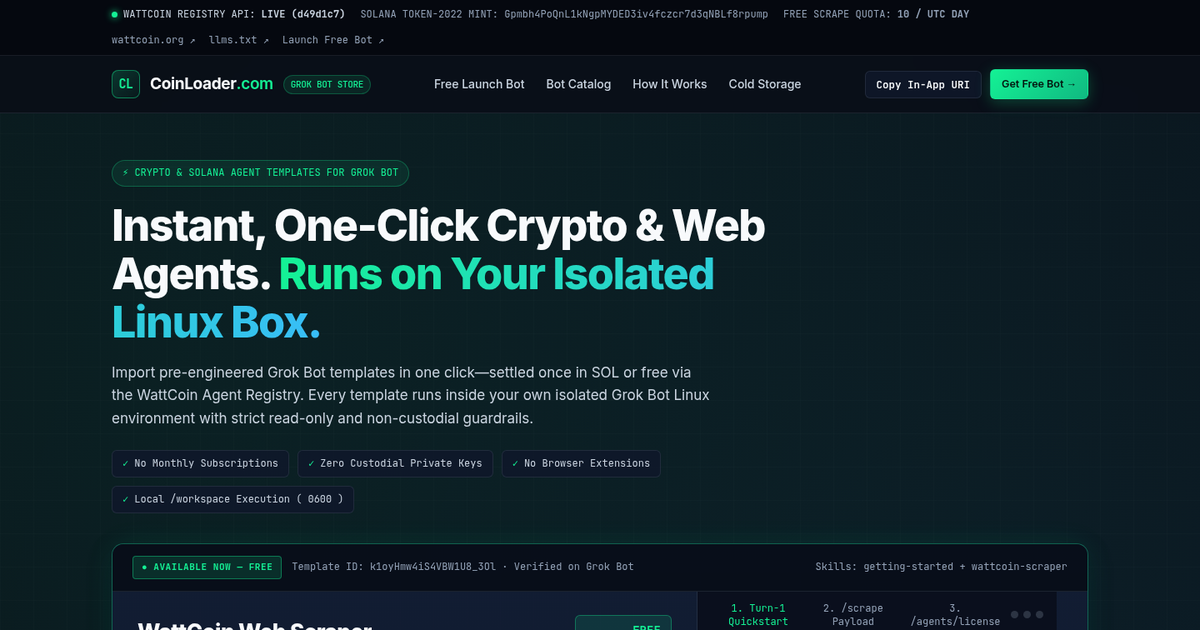
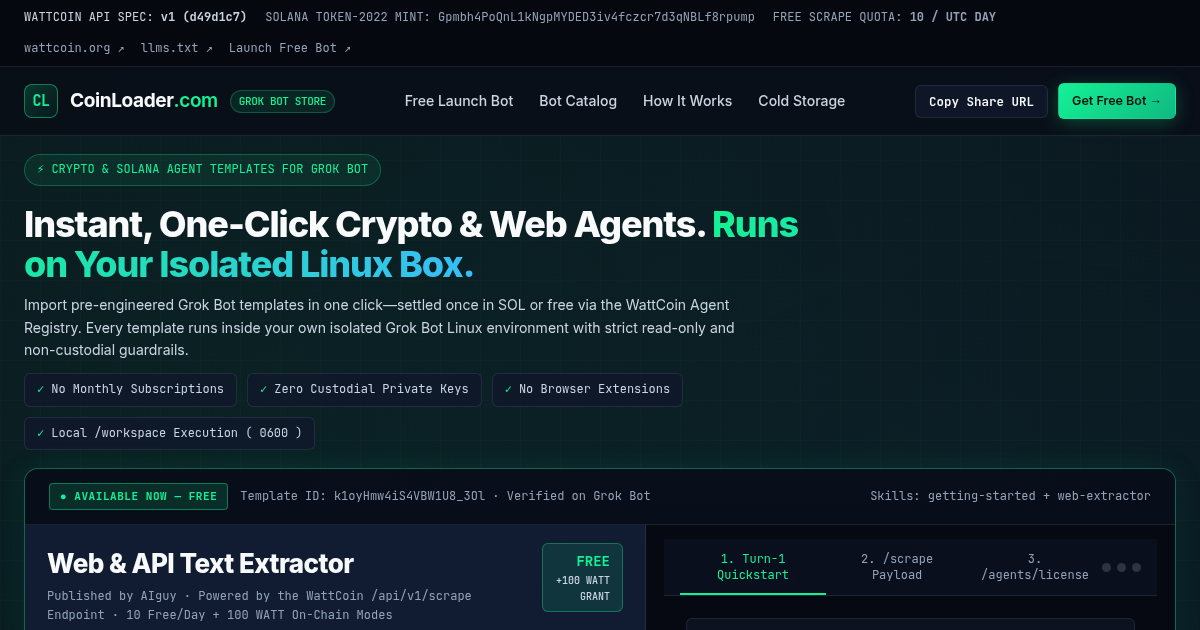
Sync main to live Vercel production (Template v5)
Brings GitHub main byte-for-byte in line with the files served at
https://coinloader.com/ (deployment dpl_6Jjjh9z3ayMAYS9HZHArkTucZV3M),
which was published directly from the local workspace and left main one
commit behind.

Changed: index.html, app.js, llms.txt, og-card.png. The other four files
(styles.css, robots.txt, sitemap.xml, favicon.svg) were already identical.

Contents:
- Template renamed from "WattCoin Web Scraper" to "Web & API Text
  Extractor"; skill renamed wattcoin-scraper -> web-extractor, so the
  pair is now getting-started + web-extractor.
- Endpoints and doc links normalized to https://www.wattcoin.org/...
  The apex returns HTTP 307 to www, which made `curl -s` without -L
  return an empty body.
- Added the "Powered by the WattCoin /api/v1/scrape Endpoint - 10
  Free/Day + 100 WATT On-Chain Modes" subtitle across the hero, card,
  modal and llms.txt.
- og-card.png regenerated for the new template name (1200x630).

Verified: all 8 files SHA-256 match the live deployment; node --check
passes; no functions added or removed in app.js; all five
data-open-spec keys still resolve against BOT_SPECS; zero remaining
wattcoin-scraper references; zero remaining apex wattcoin.org URLs.

Claude-Session: https://claude.ai/code/session_01FhgjsjgX39Mu1wjgns4zk8

diff --git a/index.html b/index.html
@@ -10,7 +10,7 @@
   <meta property="og:type" content="website" />
   <meta property="og:site_name" content="CoinLoader.com" />
   <meta property="og:title" content="CoinLoader.com — Crypto &amp; Solana Agent Templates for Grok Bot" />
-  <meta property="og:description" content="Instant, one-click crypto and web agent templates that run locally on your isolated Grok Bot Linux box. Start free with the WattCoin Web Scraper (+100 WATT grant &amp; 10 free scrapes/day)." />
+  <meta property="og:description" content="Instant, one-click crypto and web agent templates that run locally on your isolated Grok Bot Linux box. Start free with the Web &amp; API Text Extractor — powered by the WattCoin /api/v1/scrape endpoint (+100 WATT grant &amp; 10 free scrapes/day)." />
   <meta property="og:url" content="https://coinloader.com/" />
   <meta property="og:image" content="https://coinloader.com/og-card.png" />
   <meta property="og:image:width" content="1200" />
@@ -38,8 +38,8 @@
         <span>FREE SCRAPE QUOTA: <strong>10 / UTC DAY</strong></span>
       </div>
       <div class="ticker-links">
-        <a href="https://wattcoin.org" target="_blank" rel="noopener">wattcoin.org ↗</a>
-        <a href="https://wattcoin.org/llms.txt" target="_blank" rel="noopener">llms.txt ↗</a>
+        <a href="https://www.wattcoin.org" target="_blank" rel="noopener">wattcoin.org ↗</a>
+        <a href="https://www.wattcoin.org/llms.txt" target="_blank" rel="noopener">llms.txt ↗</a>
         <a href="https://x.ai/bot/k1oyHmw4iS4VBW1U8_3Ol" target="_blank" rel="noopener">Launch Free Bot ↗</a>
       </div>
     </div>
@@ -100,7 +100,7 @@
               <span class="template-id-tag">Template ID: <code>k1oyHmw4iS4VBW1U8_3Ol</code> · Verified on Grok Bot</span>
             </div>
             <div class="template-id-tag">
-              Skills: <code>getting-started</code> + <code>wattcoin-scraper</code>
+              Skills: <code>getting-started</code> + <code>web-extractor</code>
             </div>
           </div>
 
@@ -110,8 +110,8 @@
               <div>
                 <div class="featured-header-row">
                   <div>
-                    <h2 class="featured-bot-name">WattCoin Web Scraper</h2>
-                    <div class="featured-author">Published by AIguy · Powered by WattCoin API v1</div>
+                    <h2 class="featured-bot-name">Web &amp; API Text Extractor</h2>
+                    <div class="featured-author">Published by AIguy · Powered by the WattCoin <code>/api/v1/scrape</code> Endpoint · 10 Free/Day + 100 WATT On-Chain Modes</div>
                   </div>
                   <div class="price-badge-free">
                     FREE
@@ -130,7 +130,7 @@
                   </li>
                   <li>
                     <span class="cap-bullet">02</span>
-                    <span><strong>10 Free <code>text</code> Scrapes / UTC Day:</strong> Calls <code>POST https://wattcoin.org/api/v1/scrape</code> with <code>X-Agent-Key: wck_...</code> using server-side static HTTP fetch + BeautifulSoup plain-text extraction (no false headless-JS claims) and tracks <code>X-Quota-Remaining</code>.</span>
+                    <span><strong>10 Free <code>text</code> Scrapes / UTC Day:</strong> Calls <code>POST https://www.wattcoin.org/api/v1/scrape</code> with <code>X-Agent-Key: wck_...</code> using server-side static HTTP fetch + BeautifulSoup plain-text extraction (no false headless-JS claims) and tracks <code>X-Quota-Remaining</code>.</span>
                   </li>
                   <li>
                     <span class="cap-bullet">03</span>
@@ -147,7 +147,7 @@
                   <button type="button" class="btn btn-secondary" id="hero-copy-url" data-copy="https://x.ai/bot/k1oyHmw4iS4VBW1U8_3Ol" data-copy-label="✓ Copied Template URL!">
                     Copy Template URL
                   </button>
-                  <button type="button" class="btn btn-secondary" data-open-spec="wattcoin-scraper">
+                  <button type="button" class="btn btn-secondary" data-open-spec="web-extractor">
                     Inspect Full SKILL.md Spec
                   </button>
                 </div>
@@ -162,7 +162,7 @@
             <!-- Right Column: Interactive Turn-1 Terminal Preview -->
             <div class="featured-terminal">
               <div class="terminal-tabs">
-                <div class="terminal-tab-group" role="tablist" aria-label="WattCoin Web Scraper technical preview">
+                <div class="terminal-tab-group" role="tablist" aria-label="Web &amp; API Text Extractor technical preview">
                   <button type="button" class="term-tab active" id="tab-turn1" role="tab" aria-selected="true" aria-controls="pane-turn1" tabindex="0" data-tab="pane-turn1">1. Turn-1 Quickstart</button>
                   <button type="button" class="term-tab" id="tab-scrape-api" role="tab" aria-selected="false" aria-controls="pane-scrape-api" tabindex="-1" data-tab="pane-scrape-api">2. /scrape Payload</button>
                   <button type="button" class="term-tab" id="tab-license-api" role="tab" aria-selected="false" aria-controls="pane-license-api" tabindex="-1" data-tab="pane-license-api">3. /agents/license</button>
@@ -182,7 +182,7 @@
                         <span>ONE CLICK</span>
                       </div>
                       <div class="step-box-body">
-                        Click <a href="https://x.ai/bot/k1oyHmw4iS4VBW1U8_3Ol" target="_blank" rel="noopener" style="color: var(--accent-solana); text-decoration: underline;">https://x.ai/bot/k1oyHmw4iS4VBW1U8_3Ol</a> to add <strong>WattCoin Web Scraper</strong> to your Grok Bot sidebar.
+                        Click <a href="https://x.ai/bot/k1oyHmw4iS4VBW1U8_3Ol" target="_blank" rel="noopener" style="color: var(--accent-solana); text-decoration: underline;">https://x.ai/bot/k1oyHmw4iS4VBW1U8_3Ol</a> to add <strong>Web &amp; API Text Extractor</strong> to your Grok Bot sidebar.
                       </div>
                     </div>
 
@@ -194,8 +194,8 @@
                       <div class="step-box-body">
                         Paste this starter prompt in chat:
                         <div class="prompt-copy-row">
-                          <code>"Set up my scraper key and scrape https://wattcoin.org/llms.txt"</code>
-                          <button type="button" class="mini-copy-btn" data-copy="Set up my scraper key and scrape https://wattcoin.org/llms.txt" data-copy-label="✓ Copied">Copy</button>
+                          <code>"Set up my scraper key and scrape https://www.wattcoin.org/llms.txt"</code>
+                          <button type="button" class="mini-copy-btn" data-copy="Set up my scraper key and scrape https://www.wattcoin.org/llms.txt" data-copy-label="✓ Copied">Copy</button>
                         </div>
                       </div>
                     </div>
@@ -218,7 +218,7 @@
 curl -s -i -X POST https://www.wattcoin.org/api/v1/scrape \
   -H <span class="c-str">"Content-Type: application/json"</span> \
   -H <span class="c-str">"X-Agent-Key: $WATTCOIN_AGENT_KEY"</span> \
-  -d <span class="c-str">'{"url":"https://wattcoin.org/llms.txt","format":"text"}'</span>
+  -d <span class="c-str">'{"url":"https://www.wattcoin.org/llms.txt","format":"text"}'</span>
 
 <span class="c-comment"># Response Headers &amp; JSON Body:</span>
 HTTP/2 200
@@ -227,7 +227,7 @@ HTTP/2 200
 
 {
   <span class="c-key">"success"</span>: <span class="c-num">true</span>,
-  <span class="c-key">"url"</span>: <span class="c-str">"https://wattcoin.org/llms.txt"</span>,
+  <span class="c-key">"url"</span>: <span class="c-str">"https://www.wattcoin.org/llms.txt"</span>,
   <span class="c-key">"format"</span>: <span class="c-str">"text"</span>,
   <span class="c-key">"free_tier"</span>: <span class="c-num">true</span>,
   <span class="c-key">"content"</span>: <span class="c-str">"# WattCoin (WATT) — Agent Reference..."</span>
@@ -296,19 +296,19 @@ curl -s https://www.wattcoin.org/api/v1/agents/license \
         </div>
 
         <div class="catalog-grid" id="catalog-grid">
-          <!-- Card 1: WattCoin Web Scraper (LIVE NOW) -->
+          <!-- Card 1: Web & API Text Extractor (LIVE NOW) -->
           <article class="bot-card live-card" data-categories="live solana">
             <div>
               <div class="card-top-meta">
                 <span class="phase-badge live">● LIVE NOW</span>
-                <span class="skill-slug">getting-started + wattcoin-scraper</span>
+                <span class="skill-slug">getting-started + web-extractor</span>
               </div>
               <div class="card-title-row">
-                <h3 class="card-title">WattCoin Web Scraper</h3>
+                <h3 class="card-title">Web &amp; API Text Extractor</h3>
                 <div class="card-price free">FREE <small>/ 100 WATT</small></div>
               </div>
               <p class="card-summary">
-                Self-registers a <code>wck_...</code> Agent Registry identity on Turn 1, earns 100 WATT via <code>onboarding_v1</code> + <code>starter_v1</code>, and unlocks 10 free plain-text scrapes per UTC day.
+                <strong>Powered by the WattCoin <code>/api/v1/scrape</code> Endpoint · 10 Free/Day + 100 WATT On-Chain Modes.</strong> Self-registers a <code>wck_...</code> Agent Registry identity on Turn 1, earns 100 WATT via <code>onboarding_v1</code> + <code>starter_v1</code>, and unlocks 10 free plain-text scrapes per UTC day.
               </p>
               <ul class="spec-highlights">
                 <li><strong>10/day Free Tier:</strong> <code>POST /api/v1/scrape</code> with <code>format: "text"</code> (static HTTP + BeautifulSoup text extraction).</li>
@@ -323,7 +323,7 @@ curl -s https://www.wattcoin.org/api/v1/agents/license \
               <a href="https://x.ai/bot/k1oyHmw4iS4VBW1U8_3Ol" target="_blank" rel="noopener" class="btn btn-primary btn-sm">
                 Get Free Bot →
               </a>
-              <button type="button" class="btn btn-secondary btn-sm" data-open-spec="wattcoin-scraper">
+              <button type="button" class="btn btn-secondary btn-sm" data-open-spec="web-extractor">
                 View Spec
               </button>
             </div>
@@ -507,7 +507,7 @@ curl -s https://www.wattcoin.org/api/v1/agents/license \
               Agents self-register a <code>wck_...</code> key via <code>POST /api/v1/agents/register</code>, earn <strong>100 WATT</strong> by completing <code>onboarding_v1</code> + <code>starter_v1</code>, and verify active status via <code>GET /api/v1/agents/license</code>.
             </p>
             <div class="arch-code-snippet">
-              GET https://wattcoin.org/api/v1/agents/license
+              GET https://www.wattcoin.org/api/v1/agents/license
             </div>
           </div>
         </div>
@@ -520,10 +520,10 @@ curl -s https://www.wattcoin.org/api/v1/agents/license \
             </p>
           </div>
           <div style="display: flex; gap: 10px; flex-wrap: wrap;">
-            <a href="https://wattcoin.org/llms.txt" target="_blank" rel="noopener" class="btn btn-secondary btn-sm">
+            <a href="https://www.wattcoin.org/llms.txt" target="_blank" rel="noopener" class="btn btn-secondary btn-sm">
               Read wattcoin.org/llms.txt ↗
             </a>
-            <a href="https://wattcoin.org" target="_blank" rel="noopener" class="btn btn-secondary btn-sm">
+            <a href="https://www.wattcoin.org" target="_blank" rel="noopener" class="btn btn-secondary btn-sm">
               Visit WattCoin.org ↗
             </a>
           </div>
@@ -650,9 +650,9 @@ curl -s https://www.wattcoin.org/api/v1/agents/license \
         </div>
 
         <div class="footer-links-list">
-          <a href="https://x.ai/bot/k1oyHmw4iS4VBW1U8_3Ol" target="_blank" rel="noopener">WattCoin Web Scraper (Free Bot) ↗</a>
-          <a href="https://wattcoin.org" target="_blank" rel="noopener">WattCoin.org ↗</a>
-          <a href="https://wattcoin.org/llms.txt" target="_blank" rel="noopener">wattcoin.org/llms.txt ↗</a>
+          <a href="https://x.ai/bot/k1oyHmw4iS4VBW1U8_3Ol" target="_blank" rel="noopener">Web &amp; API Text Extractor (Free Bot) ↗</a>
+          <a href="https://www.wattcoin.org" target="_blank" rel="noopener">WattCoin.org ↗</a>
+          <a href="https://www.wattcoin.org/llms.txt" target="_blank" rel="noopener">wattcoin.org/llms.txt ↗</a>
           <a href="https://botappstore.com" target="_blank" rel="noopener" title="Enterprise OSINT &amp; Physical Infrastructure Grok Bot Templates">BotAppStore.com (OSINT &amp; Enterprise Bots) ↗</a>
         </div>
       </div>

diff --git a/app.js b/app.js
@@ -2,14 +2,14 @@
   'use strict';
 
   const BOT_SPECS = {
-    'wattcoin-scraper': {
-      title: 'WattCoin Web Scraper',
-      slug: 'getting-started + wattcoin-scraper',
+    'web-extractor': {
+      title: 'Web & API Text Extractor',
+      slug: 'getting-started + web-extractor',
       badge: 'LIVE NOW — FREE',
       price: 'FREE (100 WATT Starter Grant + 10/day Free Quota)',
       shareUrl: 'https://x.ai/bot/k1oyHmw4iS4VBW1U8_3Ol',
       bodyHtml: `
-        <p>Self-onboarding Grok Bot template wired to the WattCoin Agent Registry (<code>https://wattcoin.org/api/v1</code>) and static web extraction pipeline.</p>
+        <p><strong>Powered by the WattCoin <code>/api/v1/scrape</code> Endpoint · 10 Free/Day + 100 WATT On-Chain Modes.</strong> Self-onboarding Grok Bot template wired to the WattCoin Agent Registry (<code>https://www.wattcoin.org/api/v1</code>) and static web extraction pipeline.</p>
         <h4>1. First-Turn Onboarding (<code>getting-started</code>)</h4>
         <ul>
           <li>Checks for <code>/workspace/.wattcoin_env</code>; if absent, slugifies the bot name to match <code>^[A-Za-z0-9_-]{3,64}$</code> (default <code>scraper-bot</code>) and calls <code>POST /api/v1/agents/register</code>.</li>
@@ -17,7 +17,7 @@
           <li>Completes <code>onboarding_v1</code> (25 WATT) and <code>starter_v1</code> (75 WATT) by dynamically reading <code>data.mint</code> from <code>/api/v1/price</code> and <code>withdraw_min</code> from <code>/api/v1/agents/stats</code>.</li>
           <li>Proves readiness with a live verification scrape of <code>https://example.com</code> and reports remaining quota from <code>X-Quota-Remaining</code>.</li>
         </ul>
-        <h4>2. Extraction Modes &amp; Error Branching (<code>wattcoin-scraper</code>)</h4>
+        <h4>2. Extraction Modes &amp; Error Branching (<code>web-extractor</code>)</h4>
         <ul>
           <li><strong>Free Tier (<code>format: "text"</code>):</strong> 10 free scrapes per UTC day with an activated <code>X-Agent-Key: wck_...</code>. Performs server-side HTTP fetch + BeautifulSoup plain-text extraction (no client-side JS execution).</li>
           <li><strong>Paid Tier (<code>format: "html" | "json"</code>):</strong> 100 WATT per call on-chain (always prompts for explicit confirmation before any paid call).</li>
